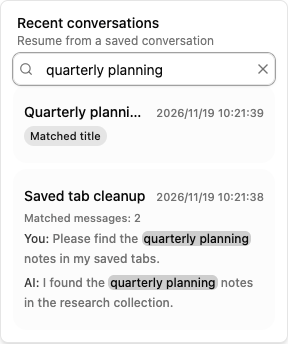
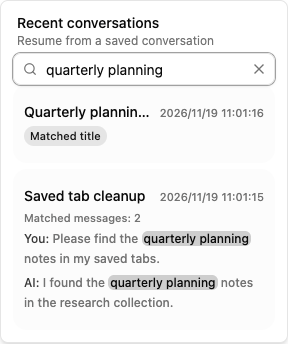
fix(ai-chat): レビュー指摘の検索オフセットと Escape 操作を修正
- サロゲートペアを含む本文でもハイライト位置がずれないよう UTF-16 コード単位で対応表を構築
- 検索結果にフォーカスがある場合も Escape で検索語をクリア
- 検索入力の余白を外側ラッパーへ移し、アイコンとクリアボタンの配置を維持
- 絵文字を含む検索とフォーカス移動後の Escape の回帰テストを追加

Refs #1046

diff --git a/src/features/ai-chat/components/ConversationHistorySearchInput.tsx b/src/features/ai-chat/components/ConversationHistorySearchInput.tsx
@@ -5,7 +5,6 @@ import type { ChangeEvent, KeyboardEvent } from 'react'
 import { Button } from '@/components/ui/button'
 import { Input } from '@/components/ui/input'
 import { useI18n } from '@/features/i18n/context/I18nProvider'
-import { cn } from '@/lib/utils'
 
 type ConversationHistorySearchInputProps = {
   className?: string
@@ -46,34 +45,36 @@ export const ConversationHistorySearchInput = ({
   )
 
   return (
-    <div className={cn('relative', className)}>
-      <Search
-        aria-hidden='true'
-        className='pointer-events-none absolute top-1/2 left-2.5 size-3.5 -translate-y-1/2 text-muted-foreground'
-      />
-      <Input
-        aria-label={t('aiChat.history.searchAria')}
-        autoComplete='off'
-        className='h-8 pr-8 pl-8 text-sm [&::-webkit-search-cancel-button]:appearance-none'
-        onChange={handleChange}
-        onKeyDown={handleKeyDown}
-        placeholder={t('aiChat.history.searchPlaceholder')}
-        ref={inputRef}
-        type='search'
-        value={value}
-      />
-      {value.length > 0 ? (
-        <Button
-          aria-label={t('aiChat.history.clearSearch')}
-          className='absolute top-1/2 right-1 size-6 -translate-y-1/2 text-muted-foreground'
-          onClick={clearSearch}
-          size='icon-sm'
-          type='button'
-          variant='ghost'
-        >
-          <X className='size-3.5' />
-        </Button>
-      ) : null}
+    <div className={className}>
+      <div className='relative'>
+        <Search
+          aria-hidden='true'
+          className='pointer-events-none absolute top-1/2 left-2.5 size-3.5 -translate-y-1/2 text-muted-foreground'
+        />
+        <Input
+          aria-label={t('aiChat.history.searchAria')}
+          autoComplete='off'
+          className='h-8 pr-8 pl-8 text-sm [&::-webkit-search-cancel-button]:appearance-none'
+          onChange={handleChange}
+          onKeyDown={handleKeyDown}
+          placeholder={t('aiChat.history.searchPlaceholder')}
+          ref={inputRef}
+          type='search'
+          value={value}
+        />
+        {value.length > 0 ? (
+          <Button
+            aria-label={t('aiChat.history.clearSearch')}
+            className='absolute top-1/2 right-1 size-6 -translate-y-1/2 text-muted-foreground'
+            onClick={clearSearch}
+            size='icon-sm'
+            type='button'
+            variant='ghost'
+          >
+            <X className='size-3.5' />
+          </Button>
+        ) : null}
+      </div>
     </div>
   )
 }

diff --git a/src/features/ai-chat/components/SavedTabsChatHeader.test.tsx b/src/features/ai-chat/components/SavedTabsChatHeader.test.tsx
@@ -261,6 +261,32 @@ describe('SavedTabsChatHeader', () => {
     expect(screen.getByTestId('conversation-row-conversation-1')).toBeTruthy()
   })
 
+  it('clears the dropdown search with Escape while a search result has focus', async () => {
+    const user = userEvent.setup()
+    const props = createProps()
+
+    render(<SavedTabsChatHeader {...props} historyVariant='dropdown' />)
+
+    await user.click(
+      screen.getByRole('button', { name: 'Recent conversations' }),
+    )
+    const search = screen.getByRole('searchbox', {
+      name: 'Search conversation history',
+    })
+
+    await user.type(search, 'Ollama')
+
+    const result = screen.getByRole('button', {
+      name: 'Open conversation Second conversation',
+    })
+    result.focus()
+    await user.keyboard('{Escape}')
+
+    expect(search).toHaveValue('')
+    expect(screen.getByTestId('conversation-row-conversation-1')).toBeTruthy()
+    expect(screen.queryByTestId('conversation-search-results')).toBeNull()
+  })
+
   it('forwards system prompt selection and reflects copied/disabled state', async () => {
     const props = createProps()
 

diff --git a/src/features/ai-chat/lib/conversation-search.ts b/src/features/ai-chat/lib/conversation-search.ts
@@ -78,6 +78,14 @@ const normalizeSearchText = (value: string): NormalizedText => {
   const ends: number[] = []
   let previousWasWhitespace = false
 
+  const pushCodeUnits = (character: string, start: number, end: number) => {
+    for (const unit of character.split('')) {
+      characters.push(unit)
+      starts.push(start)
+      ends.push(end)
+    }
+  }
+
   for (let index = 0; index < rawCharacters.length; index += 1) {
     const character = rawCharacters[index] ?? ''
 
@@ -85,15 +93,12 @@ const normalizeSearchText = (value: string): NormalizedText => {
       if (previousWasWhitespace) {
         continue
       }
-      characters.push(' ')
+      pushCodeUnits(' ', rawStarts[index] ?? 0, rawEnds[index] ?? 0)
       previousWasWhitespace = true
     } else {
-      characters.push(character)
+      pushCodeUnits(character, rawStarts[index] ?? 0, rawEnds[index] ?? 0)
       previousWasWhitespace = false
     }
-
-    starts.push(rawStarts[index] ?? 0)
-    ends.push(rawEnds[index] ?? 0)
   }
 
   return {

diff --git a/src/features/ai-chat/lib/conversation-search.test.ts b/src/features/ai-chat/lib/conversation-search.test.ts
@@ -185,6 +185,26 @@ describe('conversation-search', () => {
     expect(searchConversations(conversations, 'かいわ')).toStrictEqual([])
   })
 
+  it('絵文字（サロゲートペア）の後ろの一致でも原文の範囲を正しく抜粋する', () => {
+    const conversations = [
+      createConversation({
+        id: 'conversation-1',
+        messages: [
+          createMessage({
+            content: '😀🙂needle の後ろにある検索語',
+            id: 'message-1',
+          }),
+        ],
+      }),
+    ]
+
+    const excerpt = searchConversations(conversations, 'needle')[0]?.excerpts[0]
+
+    expect(excerpt).toBeDefined()
+    expect(getMatchText(excerpt ?? { segments: [] })).toBe('needle')
+    expect(getExcerptText(excerpt ?? { segments: [] })).toContain('😀🙂needle')
+  })
+
   it('一致箇所の前後を抜粋し、長文は省略記号で切り詰める', () => {
     const conversations = [
       createConversation({

diff --git a/src/features/ai-chat/components/SavedTabsChatHeader.tsx b/src/features/ai-chat/components/SavedTabsChatHeader.tsx
@@ -197,9 +197,12 @@ const ChatHistoryDropdown = ({
   )
   const handleEscapeKeyDown = useCallback(
     (event: KeyboardEvent) => {
-      if (searchQuery.length > 0) {
-        event.preventDefault()
+      if (searchQuery.length === 0) {
+        return
       }
+
+      event.preventDefault()
+      setSearchQuery('')
     },
     [searchQuery.length],
   )
